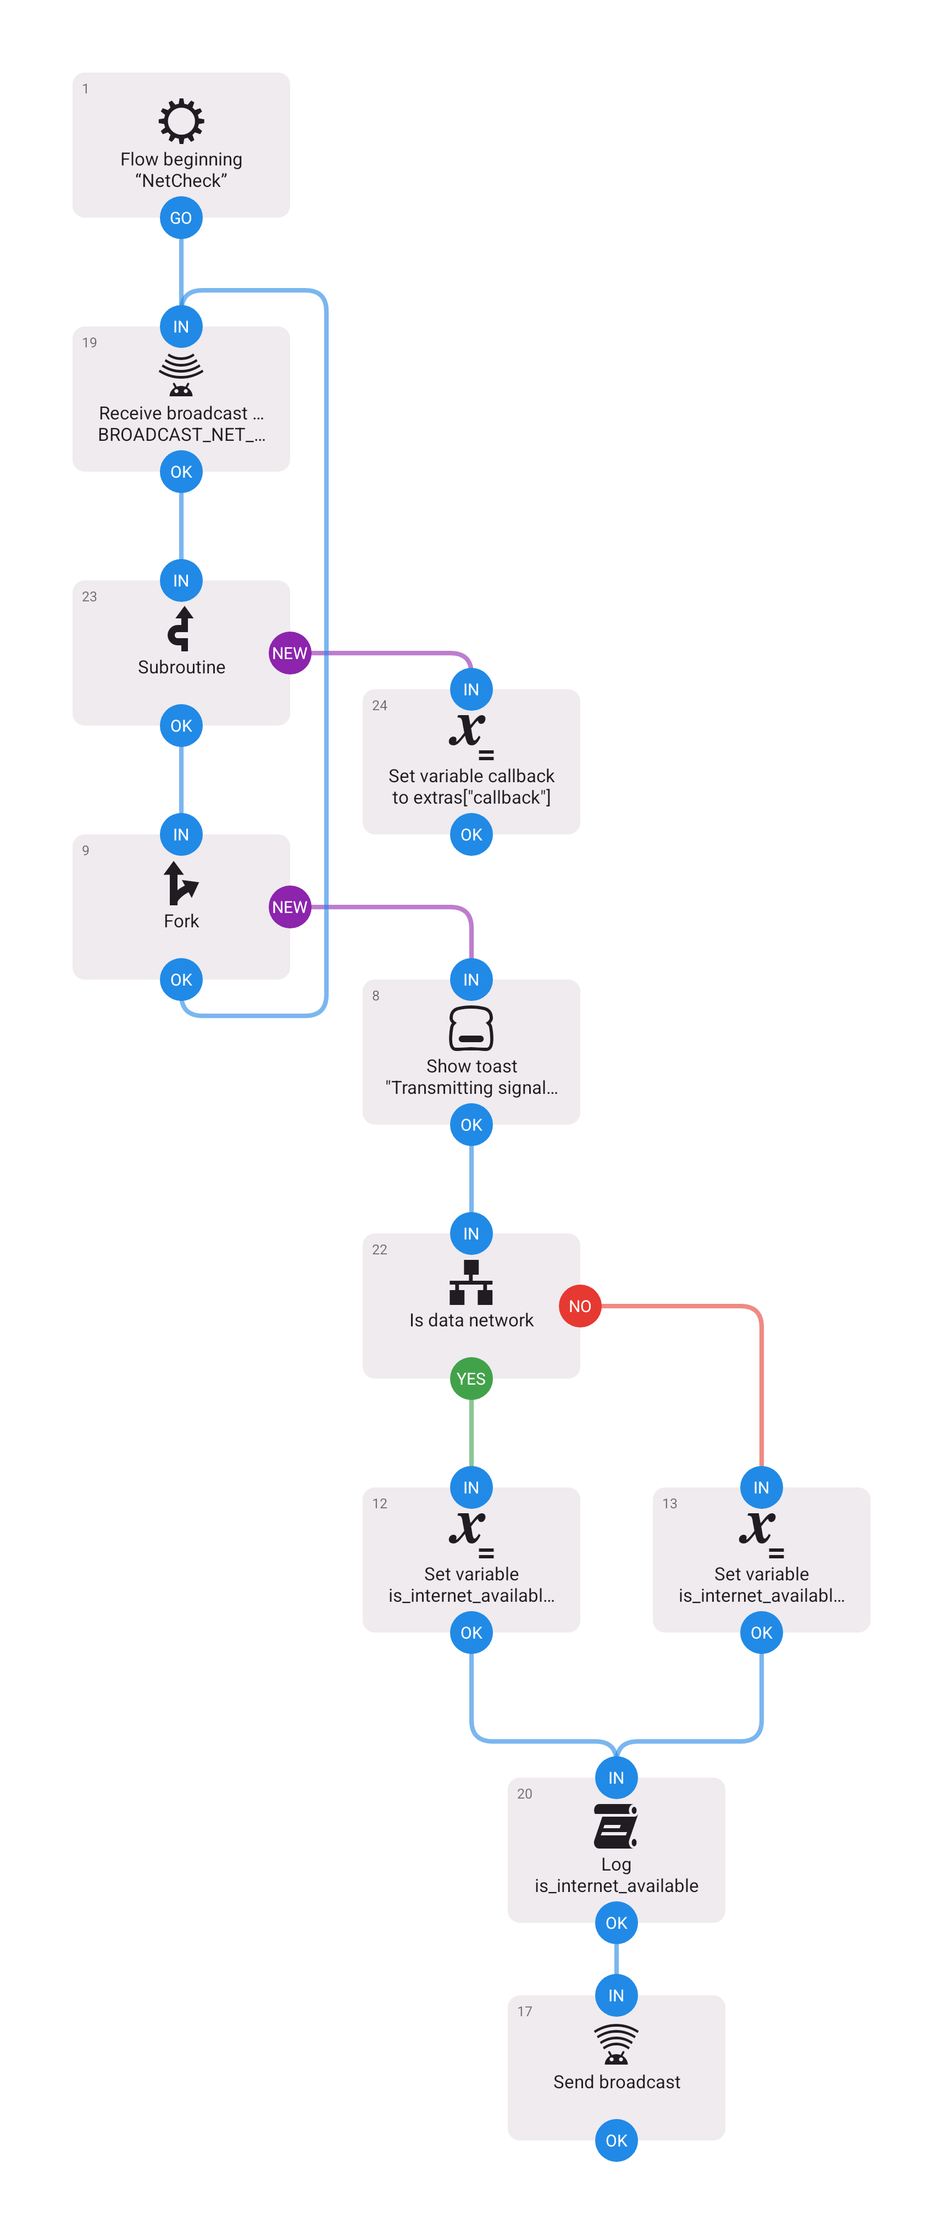
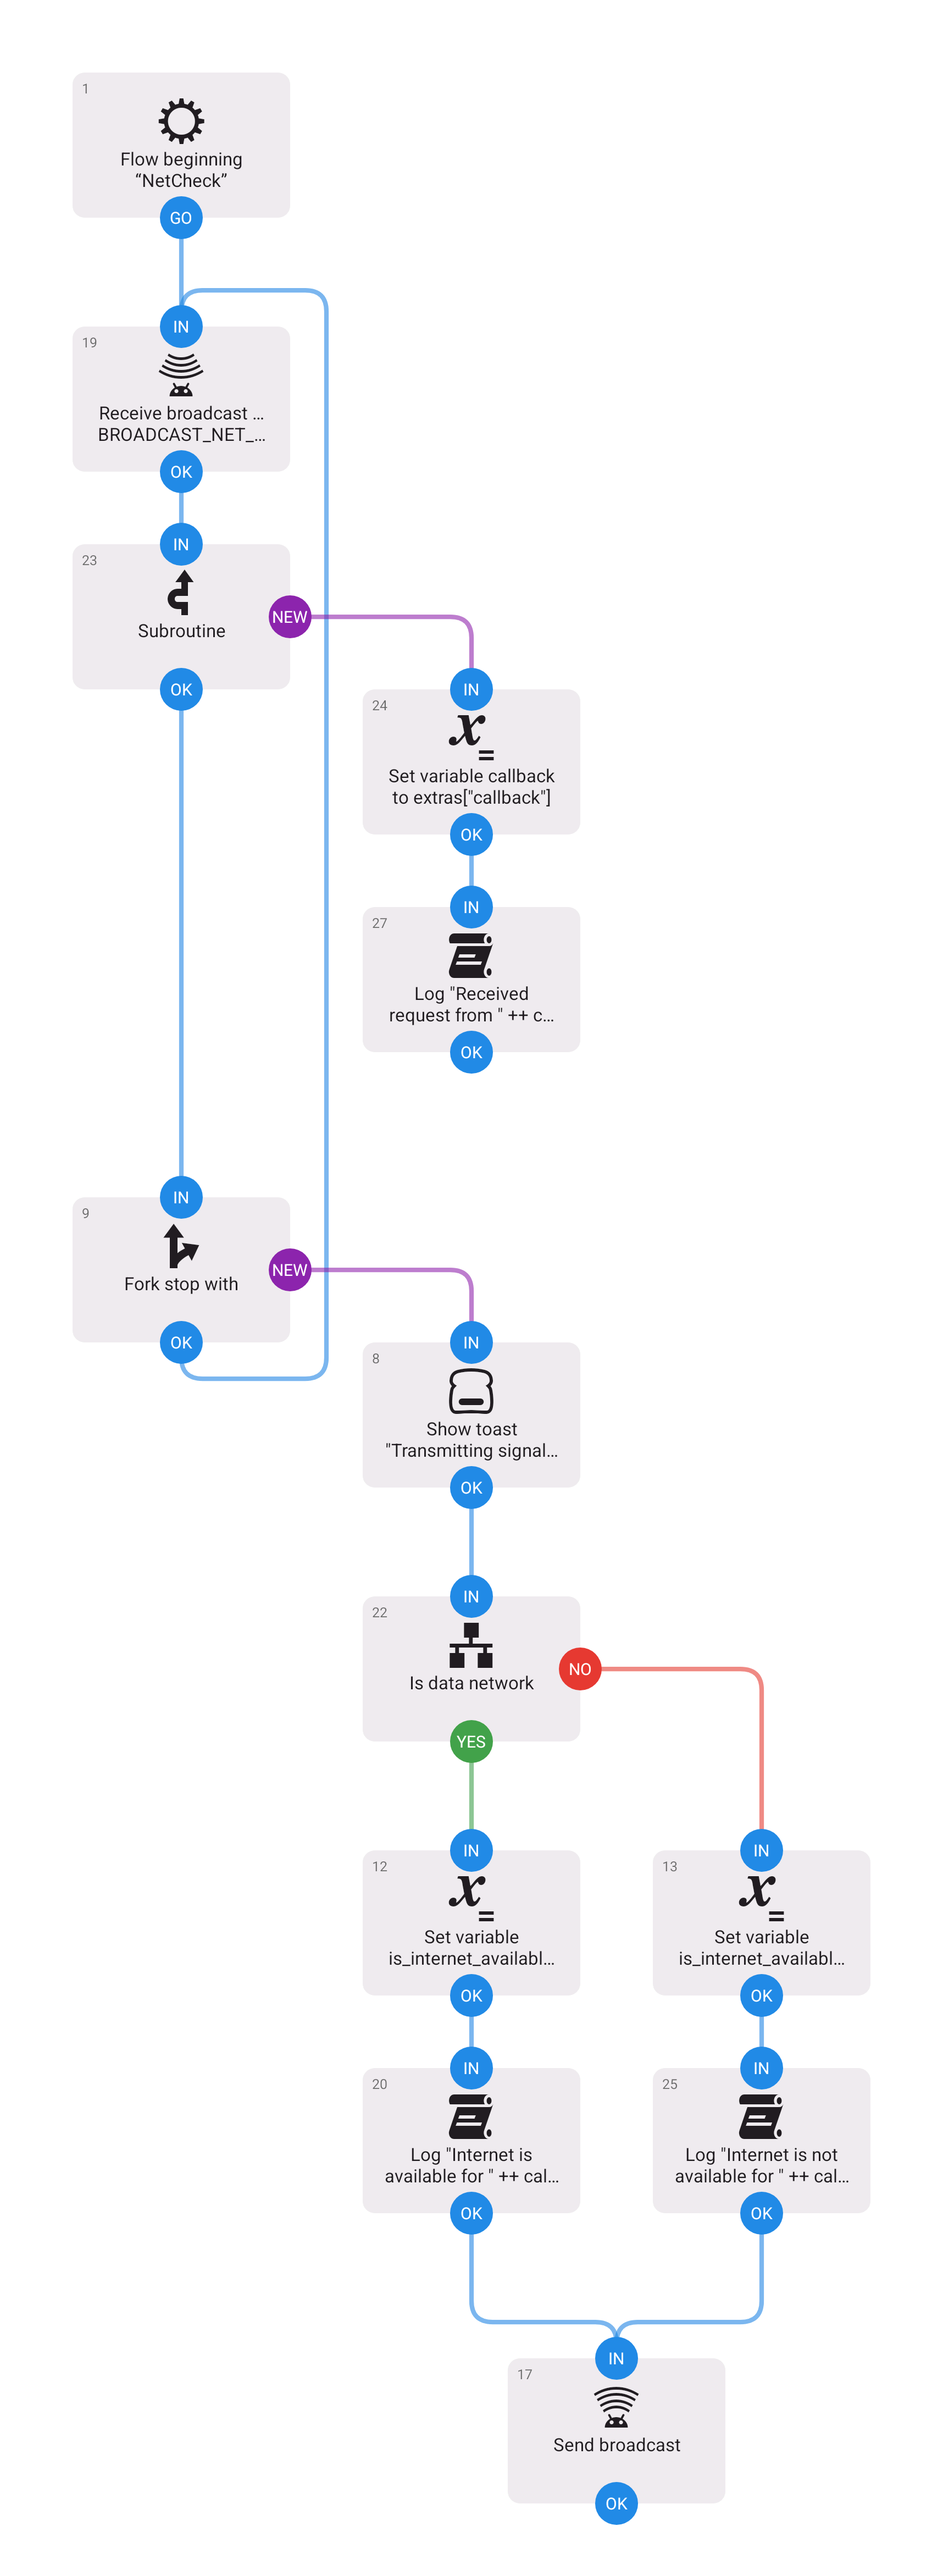
refactor: added logging for which flow requested data

diff --git a/flows/Net Check.md b/flows/Net Check.md
@@ -1,6 +1,6 @@
 # Description
 
-[ver.16]
+[ver.29]
 
 Uses broadcast event from other flows to check for internet connection.
 
